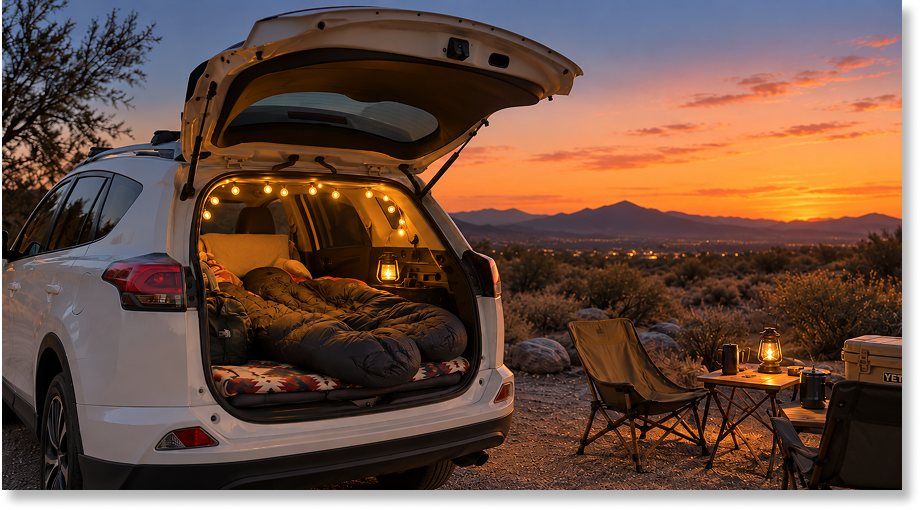
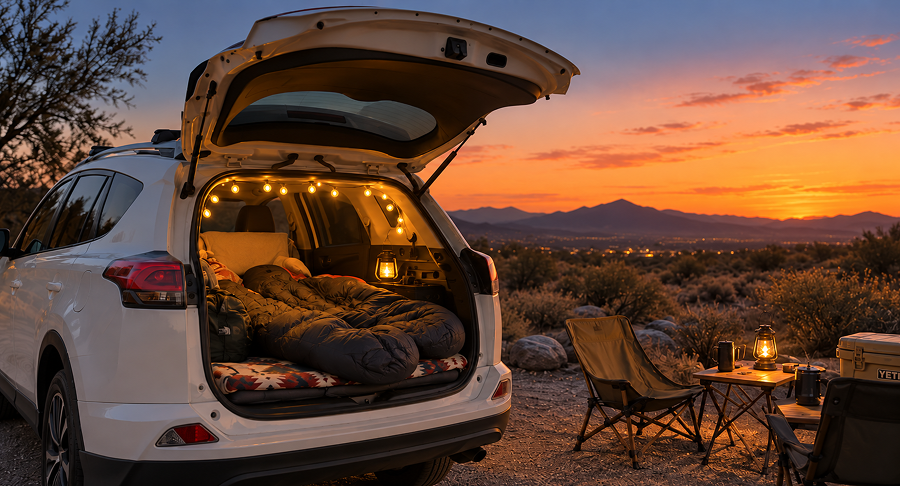
fourth commit

diff --git a/css/outdoor.css b/css/outdoor.css
@@ -116,6 +116,7 @@ header .inner .sub>li:hover {
 }
 
 header .inner .side {
+    align-items: center;
     display: flex;
     gap: 2.4rem;
     transition: all .3s;
@@ -152,7 +153,7 @@ header.on .navy {
 
 .popup {
     position: fixed;
-    width: 600px;
+    width: 550px;
     left: 50%;
     top: 50%;
     transform: translate(-50%, -50%);
@@ -163,14 +164,19 @@ header.on .navy {
     border: solid 1px #222;
     font-size: 2rem;
     color: #fff;
+    word-break: keep-all;
+    text-align: center;
+}
+.popup h2 {
+    font-weight: 500;
 }
 body.popup-open {
     overflow: hidden;
 }
 .popup button {
     position: absolute;
-    top: 0;
-    right: 5px;
+    top: 10px;
+    right: 10px;
     width: 40px;
     height:40px;
     cursor: pointer;
@@ -237,6 +243,7 @@ section .inner {
 
 .outdoor-banner .inner {
     margin-top: 60px;
+    padding: 100px 20px 0 20px;
     position: relative;
     align-items: center;
     display: flex;
@@ -266,7 +273,7 @@ section .inner {
 }
 .outdoor-banner .inner .category a:hover {
     transform: translateY(-3px);
-    box-shadow: 5px 5px 5px rgba(0, 0, 0, 0.8);
+    box-shadow: 5px 5px 5px rgba(0, 0, 0, 0.8)  !important;
 }
 .outdoor-banner .inner .category a:hover:nth-child(1) {
     opacity: 1;
@@ -579,7 +586,7 @@ section .inner {
 
 .setting-text .textin p {
     margin: 0;
-    font-size: 2rem;
+    font-size: 2.4rem;
     color: #333;
 }
 
@@ -587,9 +594,9 @@ section .inner {
 .setting-text .btn {
     display: inline-flex;
     align-items: center;
-    gap: 10px;
+    gap: 12px;
     margin-top: 24px;
-    padding: 12px 26px;
+    padding: 16px 32px;
     border-radius: 30px;
     background: #333;
     color: #fff;
@@ -615,7 +622,7 @@ section .inner {
 
 .setting-slide {
     width: 70%;
-    height: 100%;
+    height: 548.67px;
     border-radius: 8px;
     overflow: hidden;
 }
@@ -623,7 +630,7 @@ section .inner {
     margin: 0;
 }
 .swiper.slidebox {
-    overflow: visible;
+    overflow: hidden;
 
 }
 .swiper.slidebox .swiper-wrapper {
@@ -635,8 +642,9 @@ section .inner {
 }
 
 .setting-slide img {
-    width: 102%;
-    height: 104%;
+    display: block;
+    width: 100%;
+    height: 100%;
     object-fit: cover;
 }
 

diff --git a/index.html b/index.html
@@ -120,8 +120,8 @@
             <div class="popupbg">
                 <div class="popup">
                     <button>X</button>
-                    <h2>Kia life의 즐거움을 더해줄
-                        다양한 작업을 준비하고 있어요.
+                    <h2>Kia life의 즐거움을 더해줄 <br>
+                        다양한 작업을 준비하고 있어요. <br>
                         조금만 기다려주세요! </h2>
                 </div>
             </div>
@@ -144,7 +144,7 @@
                     </div>
                     <div class="outdoorbn-title">
                         <span>CAR STAY 2026 ISSUE</span>
-                        <h3>첫차박, <br>이렇게 시작해보세요</h3>
+                        <h3>첫 차박, <br>이렇게 시작해보세요</h3>
                         <p>드라이브 코스부터 차 안에서의 시간,<br>
                             전기차 라이프와 여행 팁까지<br>
                             KIA와 함께하는 다양한 라이프 가이드를<br>
@@ -342,7 +342,7 @@
                     <div class="swiper slidebox">
                         <div class="swiper-wrapper">
                             <div class="swiper-slide slidebox-text">
-                                <h4>인천 용종도 마시안 해변</h4>
+                                <h4>용종도 마시안 해변</h4>
                                 <div class="subtext">
                                     <p>#해변</p>
                                     <p>#노을</p>
@@ -440,7 +440,7 @@
                         <span>차박을 더 편하게 만드는 꿀팁 </span>
                     </div>
                     <div class="boxwrap">
-                        <div data-aos="fade-up" class="tipbox">
+                        <div data-aos="fade-up"  class="tipbox">
                             <img src="img/tipimg.png" alt="밤">
                             <p>밤에 랜턴은 차량 뒤쪽에!</p>
                             <span>은은한 빛이 분위기도 좋고 <br>벌레도 덜 끌려요.</span>

diff --git a/css/mobile.css b/css/mobile.css
@@ -16,7 +16,7 @@
         overflow-x: hidden;
     }
 
-    header, footer {
+    header, footer{
         width: 100%;
         /* width: 1920px; */
         max-width: none;
@@ -587,7 +587,7 @@
     }
     
     .popup {
-        width: 272px;
+        width: 85%;
         padding: 25px;
 
     }
